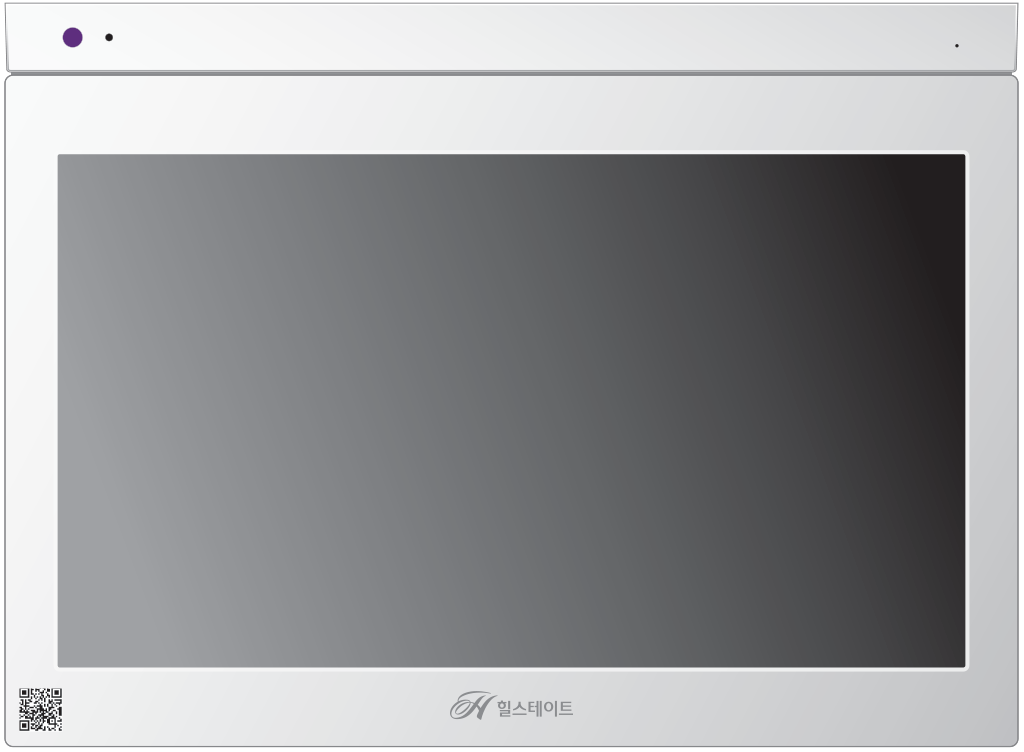
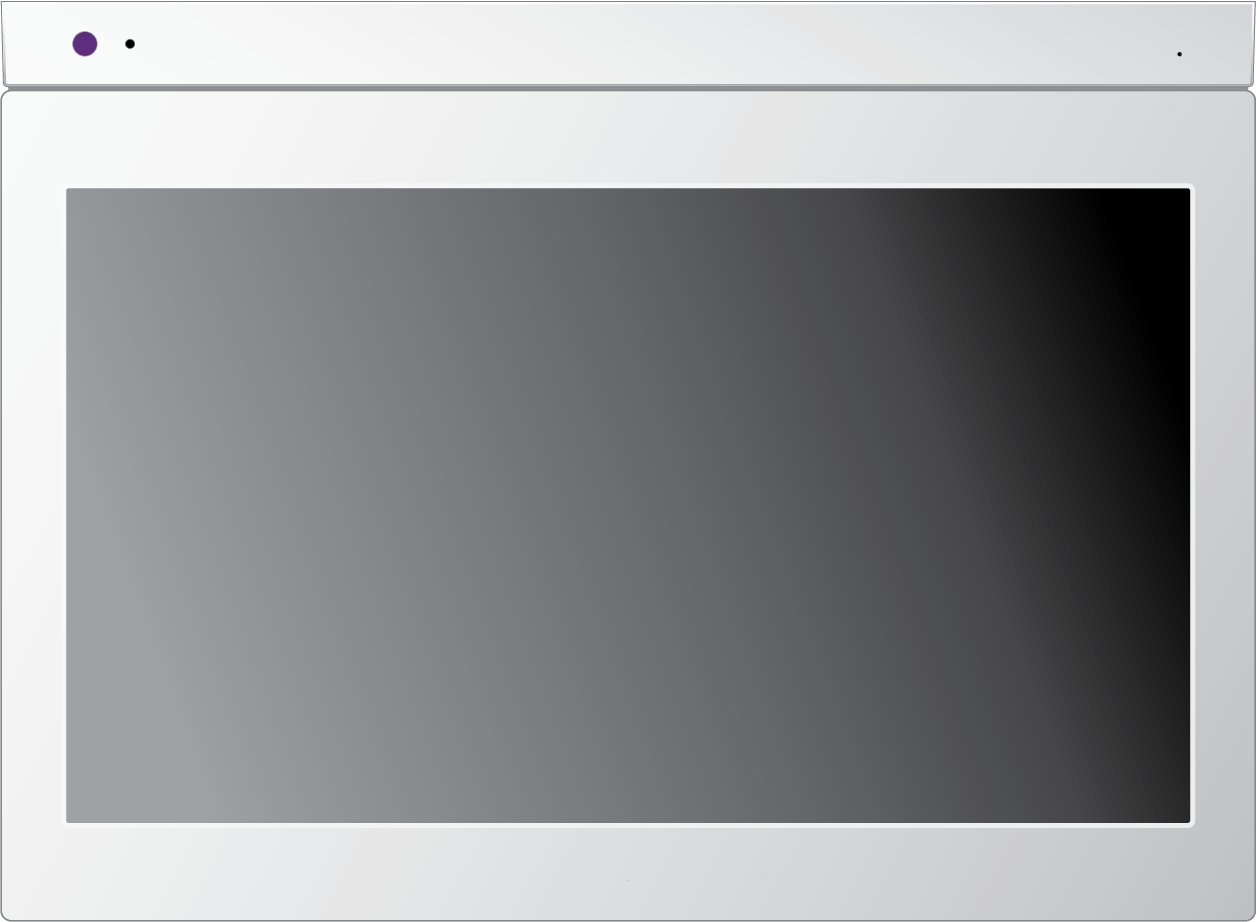
change images

Changed region(s): [[0.0, 0.0, 1.0, 1.0]]

diff --git a/CPN-165E/index.html b/CPN-165E/index.html
@@ -13,15 +13,17 @@
 </div>
 <div class="wrap">
 	<div class="pimg">
-	<img src="./cpn-165e.jpg" alt="CPN-165E 제품 이미지">
+	<img src="./cpn-165e.png" alt="CPN-165E 제품 이미지">
 		<h1>CPN-165E</h1>
 		<a href="./manual.html">간편 매뉴얼 보기</a>
 	</div>
+	<!--
 	<div class="movie_wrap">
 		<div class="inner">
 			<iframe src="https://www.youtube.com/embed/9qctfZXPu8s" frameborder="0" allow="accelerometer; autoplay; encrypted-media; gyroscope; picture-in-picture" allowfullscreen=""></iframe>
 		</div>
 	</div>
+	-->
 </div>
 <div id="ft">
 	<div class="ft_info">

diff --git a/CVK-108AF/index.html b/CVK-108AF/index.html
@@ -13,7 +13,7 @@
 </div>
 <div class="wrap">
 	<div class="pimg">
-	<img src="./cvk-108af.jpg" alt="CVK-108AF 제품 이미지">
+	<img src="./cvk-108af.png" alt="CVK-108AF 제품 이미지">
 		<h1>CVK-108AF</h1>
 		<a href="./manual.html">간편 매뉴얼 보기</a>
 	</div>
